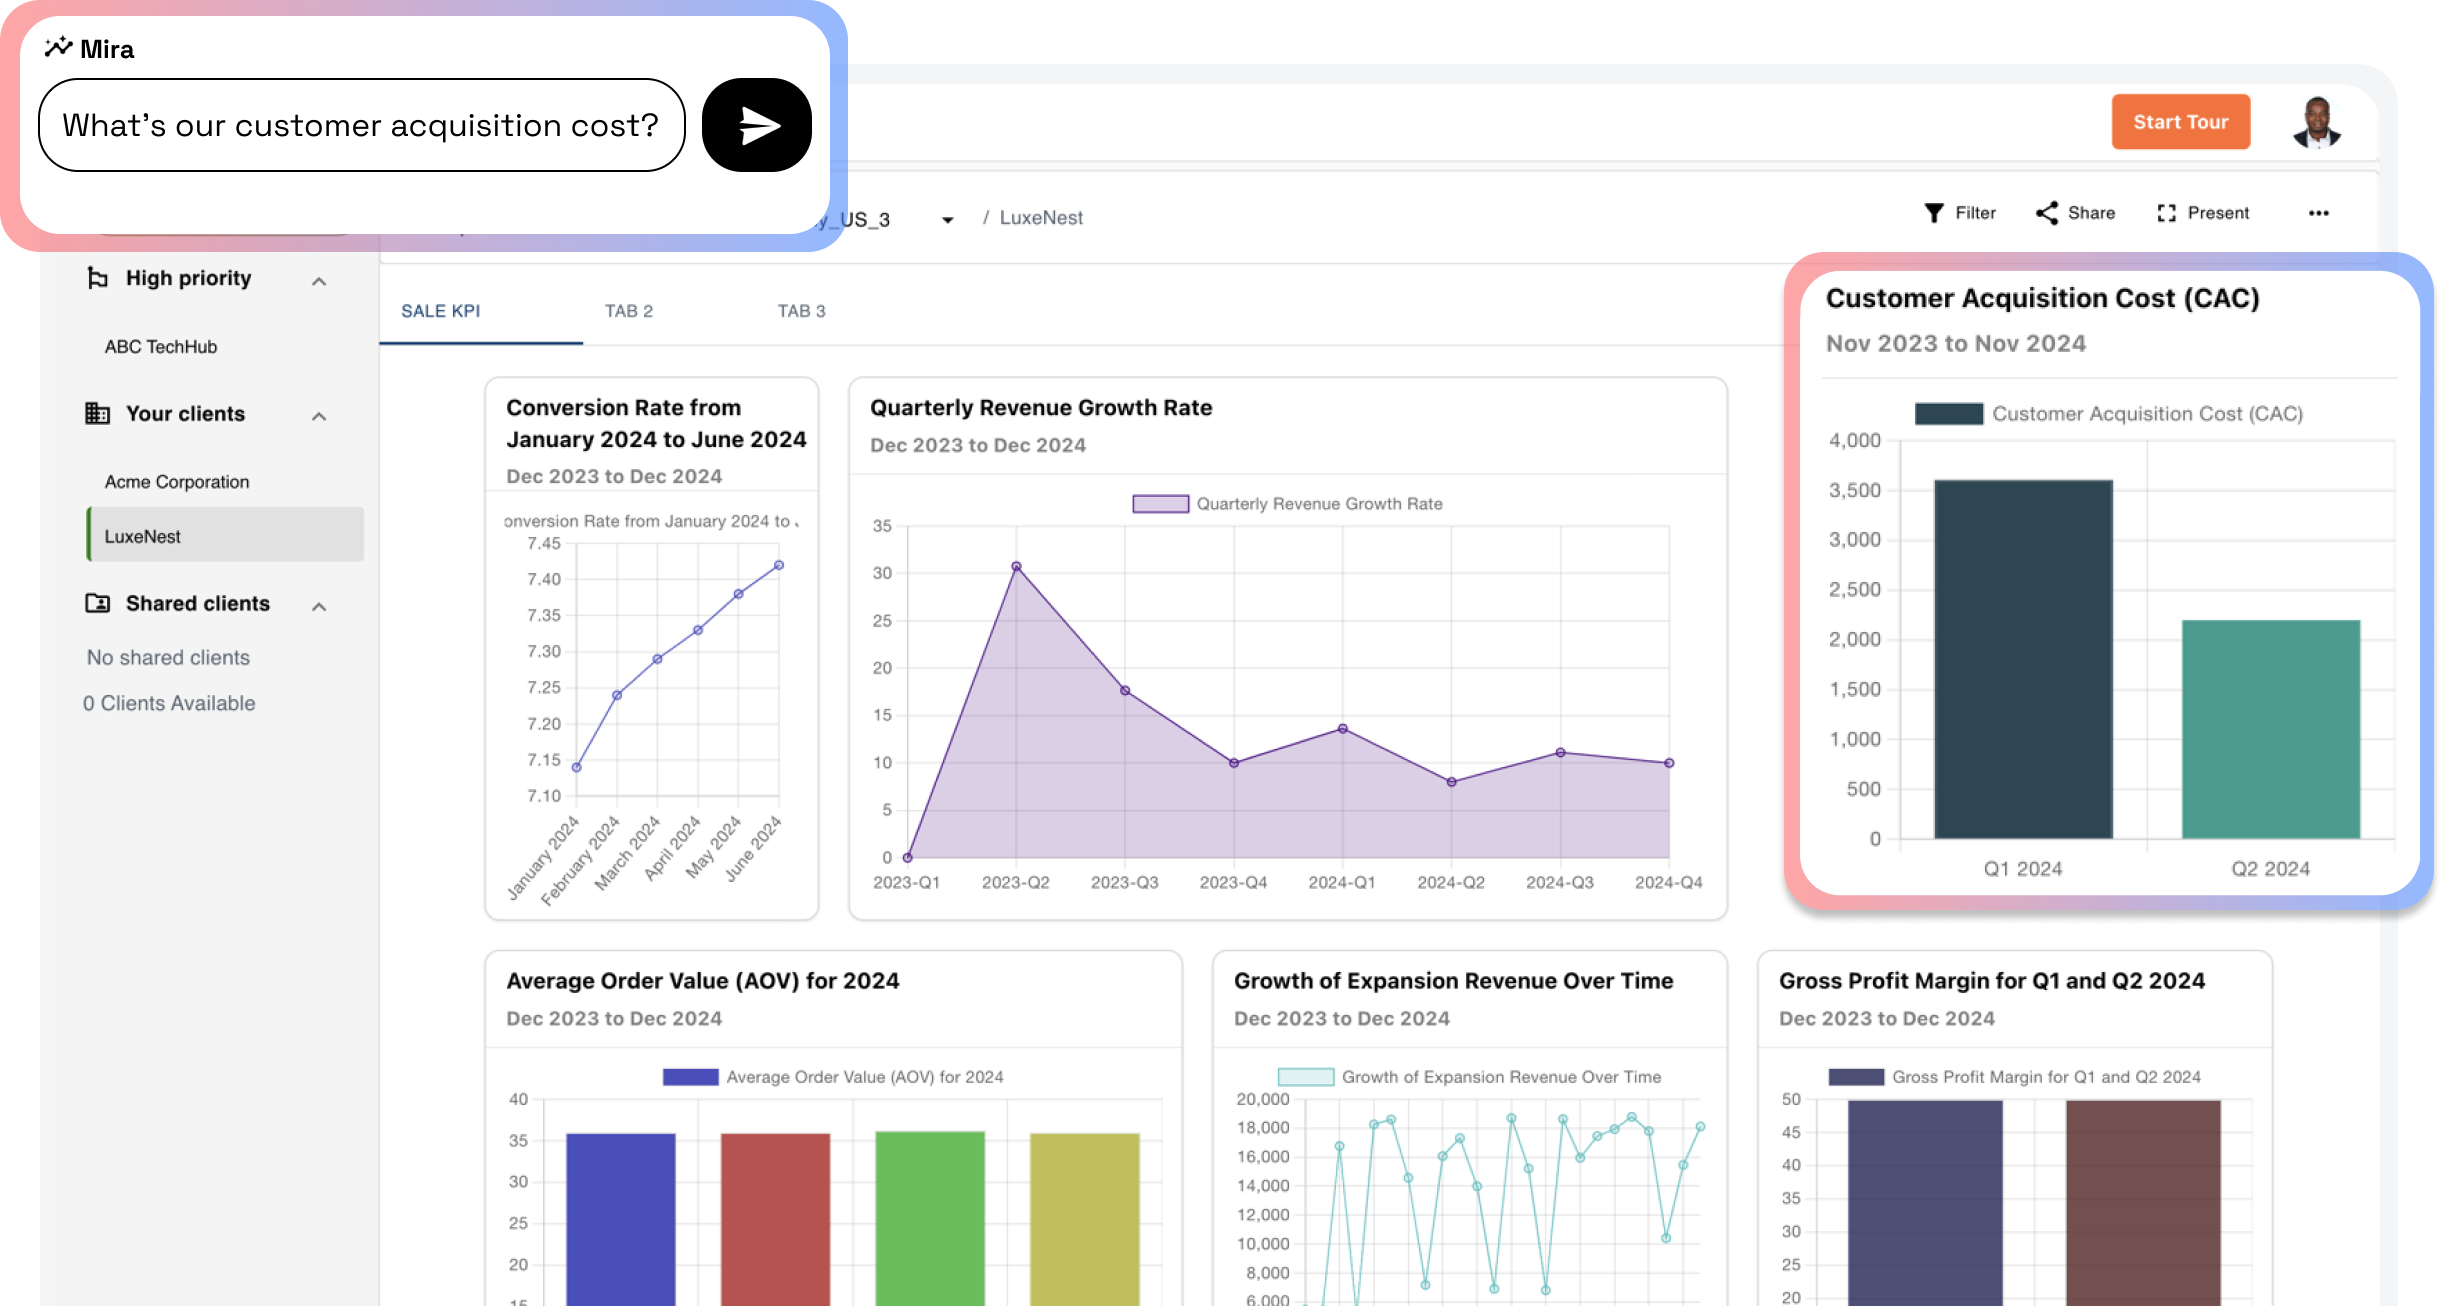
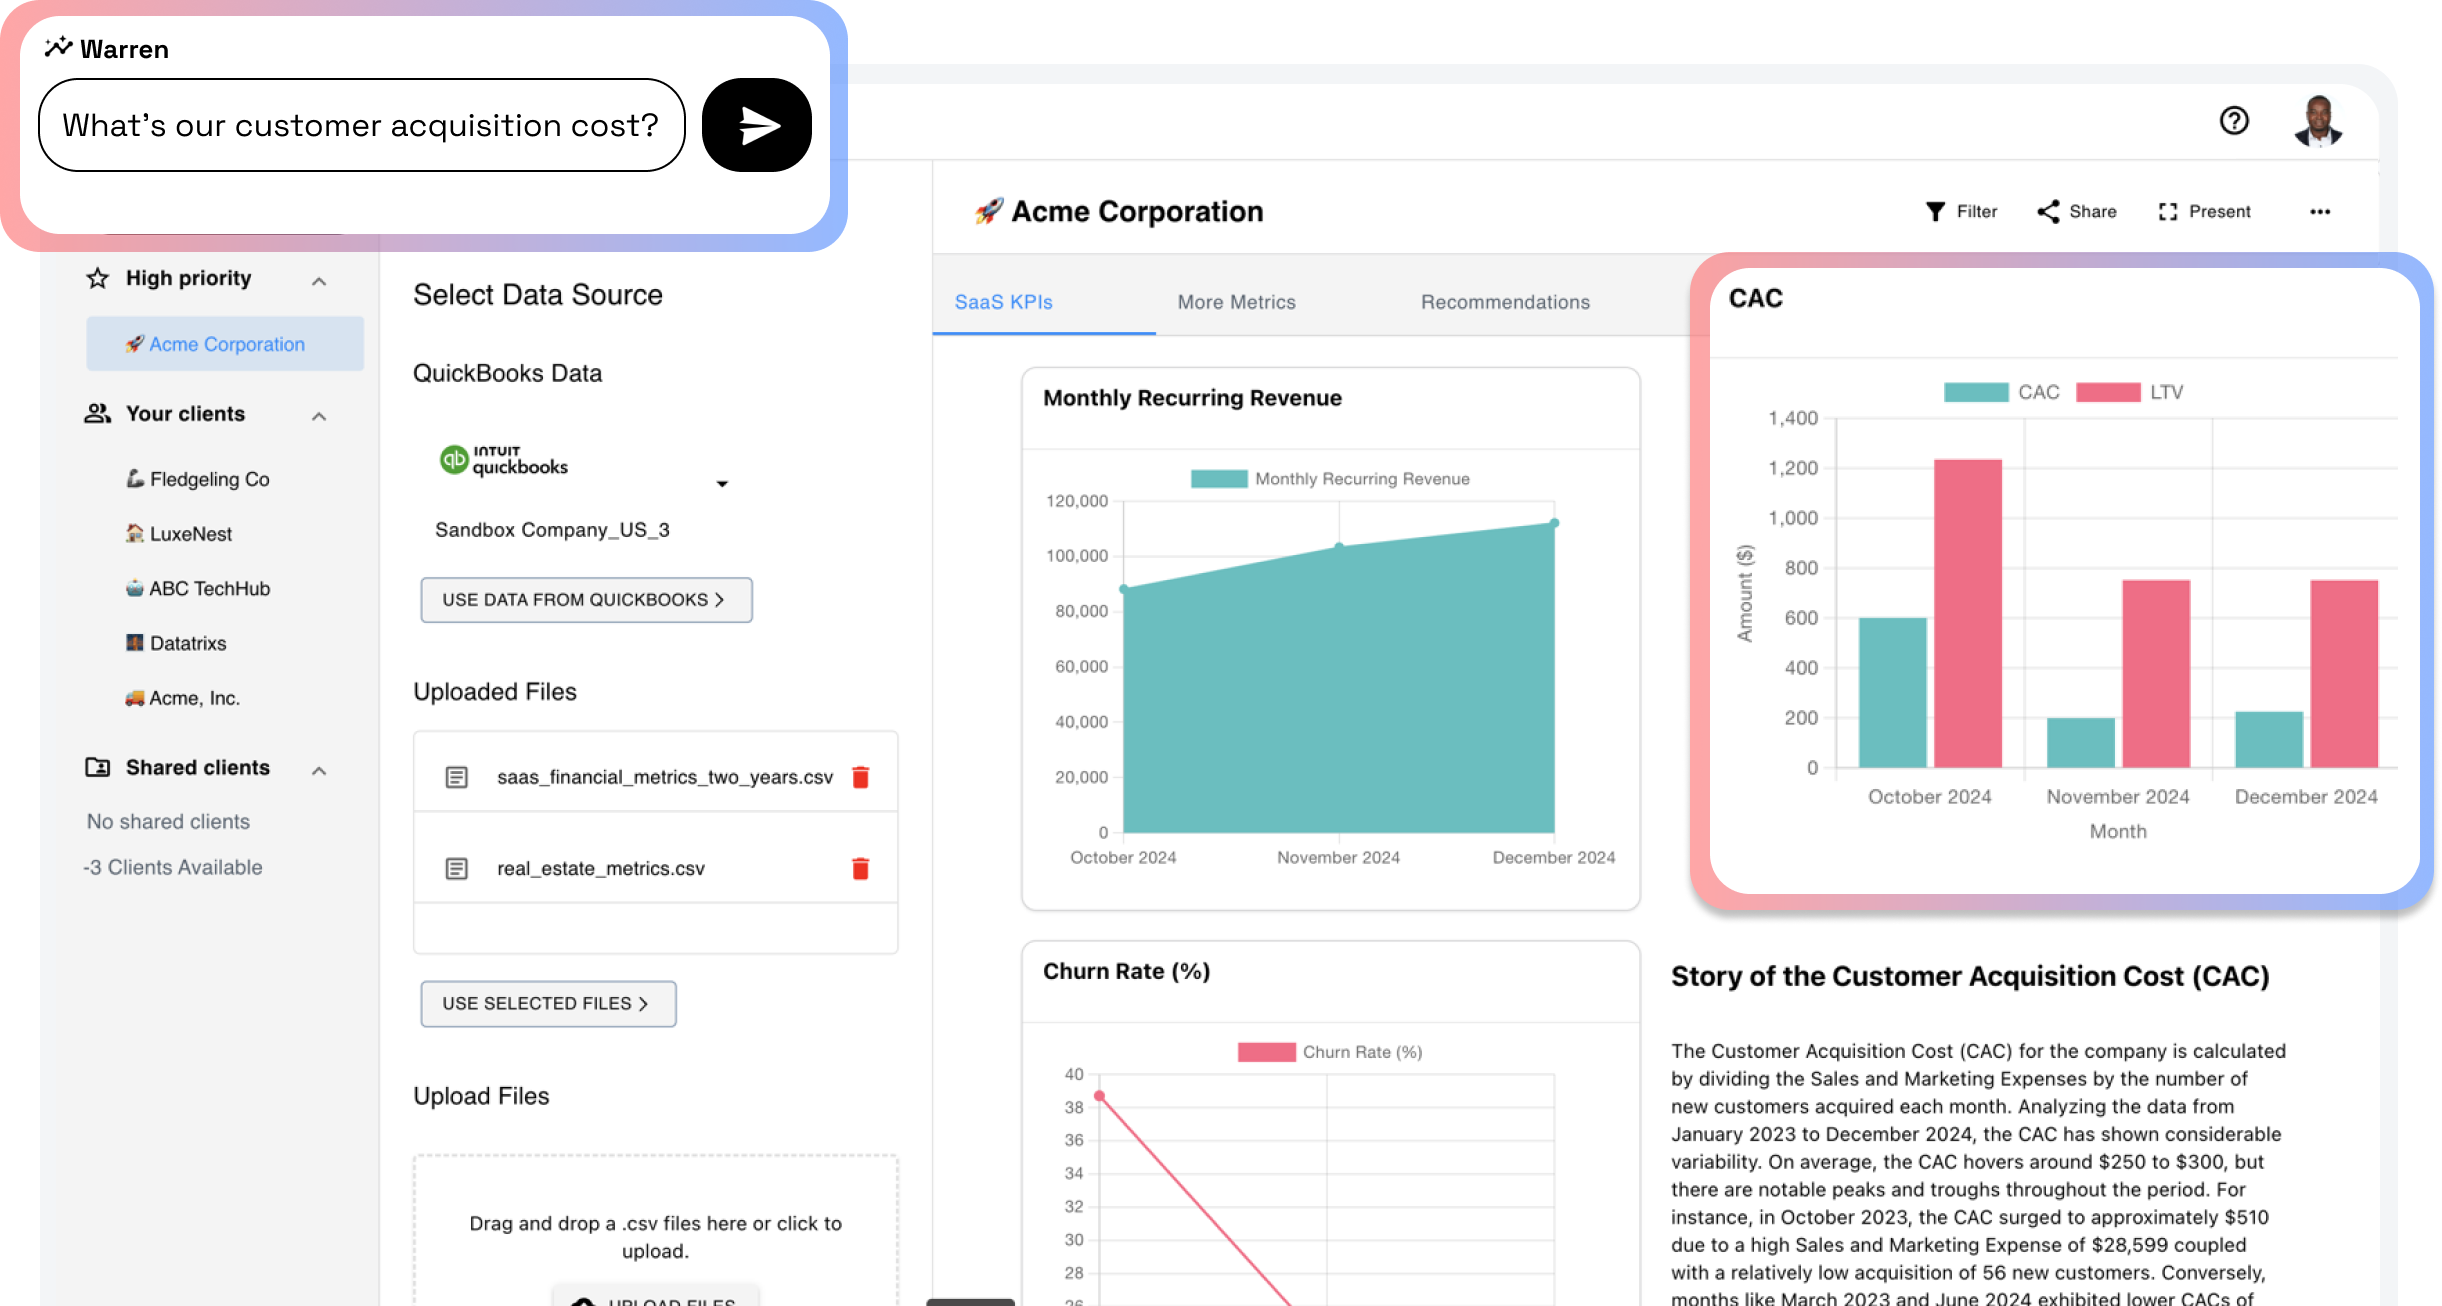
recent product updates

diff --git a/index.html b/index.html
@@ -124,7 +124,7 @@
     <!-- Hero Section -->
     <header class="hero-section" style="padding-bottom: 0;">
         <div class="container text-center mt-3 pt-3">
-            <h1 class="display-3" style="font-weight: 600;">Instant, Stunning Advisory Reports with AI.</h1>
+            <h1 class="display-3" style="font-weight: 600;">Instant, Stunning Reports with AI.</h1>
             <p class="text-muted">Quicker insights, better decisions, bigger impact.</p>
             <a  data-cal-link="serge-amouzou-boprul/30min" data-cal-namespace="30min" data-cal-config='{"layout":"month_view"}' class="btn btn-primary btn-lg m-2">Get a Demo</a>
             <a href="https://app.datatrixs.com/login" class="btn btn-outline-primary btn-lg m-2">Login</a>
@@ -155,19 +155,19 @@
                     <a data-cal-link="serge-amouzou-boprul/30min" data-cal-namespace="30min" data-cal-config='{"layout":"month_view"}' class="btn btn-secondary btn-lg">Get a Demo</a>
                 </div>
                 <div class="mt-5" style="margin-bottom: 60px;">
-                    <img src="./assets/warren-new.gif" alt="Warren Demo">
+                    <img src="./assets/warren-short-demo.gif" alt="Warren Demo">
                 </div>    
             </div>
             <!-- MIRA & WARREN section -->
             <div class="row">
                 <div class="col-md-8 section-box" style="color: #ffffff; margin-top: 60px;">
-                    <h3 class="section-subtitle">MIRA & WARREN</h3> <!-- Section subtitle in all caps -->
+                    <h3 class="section-subtitle">WARREN</h3> <!-- Section subtitle in all caps -->
                     <h2>Unify Financial and Business Data</h2>
-                    <p>With MIRA, seamlessly connect your clients’ trusted business data with their financial information to gain a comprehensive understanding of the impact on marketing efforts, sales performance, NPS, billing, and more.</p>
+                    <p>With Warren, seamlessly connect your clients’ trusted business data with their financial information to gain a comprehensive understanding of the impact on marketing efforts, sales performance, NPS, billing, and more.</p>
                     <a data-cal-link="serge-amouzou-boprul/30min" data-cal-namespace="30min" data-cal-config='{"layout":"month_view"}' class="btn btn-secondary btn-lg">Get a Demo</a>
                 </div>
                 <div class="mt-5" style="margin-bottom: 60px;">
-                    <img src="./assets/warren-new-2.gif" alt="Mira Demo">
+                    <img src="./assets/financial-and-business-data2.gif" alt="Mira Demo">
                 </div>    
             </div>
             <!-- Integrated Data Section -->

diff --git a/product.html b/product.html
@@ -189,10 +189,10 @@
         <div class="container">
             <div class="row align-items-center" style="width: 80%; margin-left: auto; margin-right: auto;">
                 <div class="col-md-6">
-                    <h3 class="fw-bold">Mira & Warren in action</h3>
+                    <h3 class="fw-bold">Warren in action</h3>
                 </div>
                 <div class="col-md-6">
-                    <p class="text-muted">Explore how Mira and Warren reveal key insights into client data, helping you deliver the 'why' for your most valuable clients' decisions and actions.</p>
+                    <p class="text-muted">Explore how Warren reveals key insights into client data, helping you deliver the 'why' for your most valuable clients' decisions and actions.</p>
                 </div>
                 <a data-cal-link="serge-amouzou-boprul/30min" data-cal-namespace="30min" data-cal-config='{"layout":"month_view"}' class="icon-link d-flex icon-link-hover text-decoration-none" style="color: #00396D; cursor: pointer;">
                     Get a Demo
